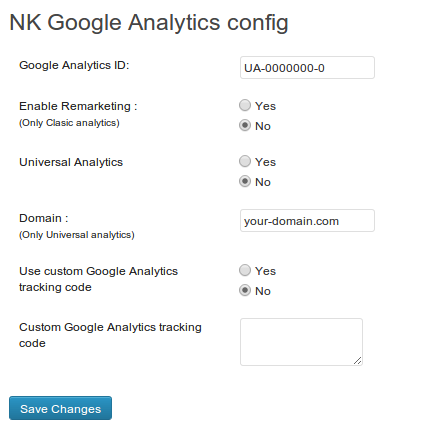
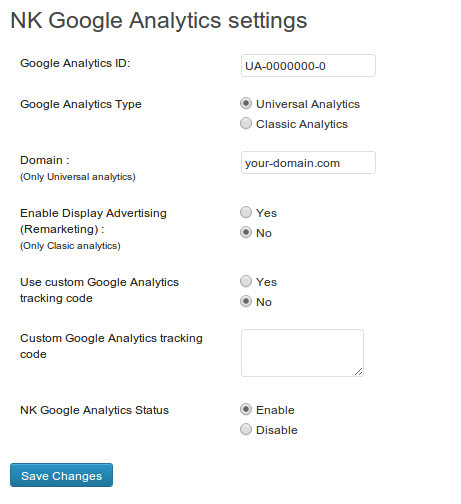
Some options updates and titles
git-svn-id: https://plugins.svn.wordpress.org/nk-google-analytics/trunk@722764 b8457f37-d9ea-0310-8a92-e5e31aec5664

diff --git a/options.php b/options.php
@@ -1,5 +1,5 @@
 <div class="wrap">
-<h2>NK Google Analytics config</h2>
+<h2>NK Google Analytics settings</h2>
 
 <form method="post" action="options.php">
 <?php wp_nonce_field('update-options'); ?>
@@ -23,7 +23,7 @@
 			update_option( "nkweb_Display_Advertising", "false" );	
 		}		
 		
-		if(get_option('nkweb_Domain')=="your-domain.com" || get_option('nkweb_Domain')==""){
+		if((get_option('nkweb_Domain')=="your-domain.com" || get_option('nkweb_Domain')=="") && get_option('nkweb_id') != "UA-0000000-0"){
 			$error="When you use Universal Analytics you must set your domain.";
 		
 		}else{
@@ -85,18 +85,10 @@ if($error != ""){
 </tr>
 
 <tr valign="top">
-<th scope="row">Enable Remarketing :<br><small>(Only Clasic analytics)</small></th>
+<th scope="row">Google Analytics Type</th>
 <td>
-	<input type="radio" name="nkweb_Display_Advertising" value="true" <?php if (get_option('nkweb_Display_Advertising') == "true"){ echo "checked "; } ?>> Yes<br>
-	<input type="radio" name="nkweb_Display_Advertising" value="false"<?php if (get_option('nkweb_Display_Advertising') == "false"){ echo "checked "; } ?>>  No <br>	
-</td>	
-</tr>
-
-<tr valign="top">
-<th scope="row">Universal Analytics</th>
-<td>
-	<input type="radio" name="nkweb_Universal_Analytics" value="true" <?php if (get_option('nkweb_Universal_Analytics') == "true"){ echo "checked "; } ?>> Yes<br>
-	<input type="radio" name="nkweb_Universal_Analytics" value="false"<?php if (get_option('nkweb_Universal_Analytics') == "false"){ echo "checked "; } ?>>  No <br>	
+	<input type="radio" name="nkweb_Universal_Analytics" value="true" <?php if (get_option('nkweb_Universal_Analytics') == "true"){ echo "checked "; } ?>> Universal Analytics<br>
+	<input type="radio" name="nkweb_Universal_Analytics" value="false"<?php if (get_option('nkweb_Universal_Analytics') == "false"){ echo "checked "; } ?>>  Classic Analytics<br>	
 </td>	
 </tr>
 
@@ -104,6 +96,15 @@ if($error != ""){
 <th scope="row">Domain :<br><small>(Only Universal analytics)</small></th>
 <td><input type="text" name="nkweb_Domain" value="<?php echo get_option('nkweb_Domain'); ?>" /></td>
 </tr>
+
+<tr valign="top">
+<th scope="row">Enable Display Advertising (Remarketing) :<br><small>(Only Clasic analytics)</small></th>
+<td>
+	<input type="radio" name="nkweb_Display_Advertising" value="true" <?php if (get_option('nkweb_Display_Advertising') == "true"){ echo "checked "; } ?>> Yes<br>
+	<input type="radio" name="nkweb_Display_Advertising" value="false"<?php if (get_option('nkweb_Display_Advertising') == "false"){ echo "checked "; } ?>>  No <br>	
+</td>	
+</tr>
+
 
 <tr valign="top">
 <th scope="row">Use custom Google Analytics tracking code</th>
@@ -117,6 +118,16 @@ if($error != ""){
 <th scope="row">Custom Google Analytics tracking code</small></th>
 <td><textarea name="nkweb_Custom_Code" ><?php echo get_option('nkweb_Custom_Code'); ?></textarea>
 </tr>
+
+<tr valign="top">
+<th scope="row">NK Google Analytics Status</th>
+<td>
+	<input type="radio" name="nkweb_Enable_GA" value="true" <?php if (get_option('nkweb_Enable_GA') == "true"){ echo "checked "; } ?>> Enable<br>
+	<input type="radio" name="nkweb_Enable_GA" value="false"<?php if (get_option('nkweb_Enable_GA') == "false"){ echo "checked "; } ?>>  Disable <br>	
+</td>	
+</tr>
+
+
 </table>
 
 <input type="hidden" name="action" value="update" />
@@ -126,4 +137,4 @@ if($error != ""){
 </p>
 
 </form>
-</div>
+</div> 

diff --git a/NKgoogleanalytics.php b/NKgoogleanalytics.php
@@ -20,10 +20,11 @@ if (!defined('WP_PLUGIN_DIR'))
 function activate_NKgoogleanalytics() {
   add_option('nkweb_id', 'UA-0000000-0');
   add_option('nkweb_Display_Advertising', 'false');  
-  add_option('nkweb_Universal_Analytics', 'false');
+  add_option('nkweb_Universal_Analytics', 'true');
   add_option('nkweb_Domain', 'your-domain.com');
   add_option('nkweb_Use_Custom', 'false');
   add_option('nkweb_Custom_Code', '');
+  add_option('nkweb_Enable_GA', 'true');
 
   //Just for statistics
   try {
@@ -41,6 +42,7 @@ function deactive_NKgoogleanalytics() {
   delete_option('nkweb_Domain');
   delete_option('nkweb_Use_Custom');
   delete_option('nkweb_Custom_Code');
+  delete_option('nkweb_Enable_GA');
 }
 
 function admin_init_NKgoogleanalytics() {
@@ -50,6 +52,7 @@ function admin_init_NKgoogleanalytics() {
   register_setting('NKgoogleanalytics', 'nkweb_Domain');
   register_setting('NKgoogleanalytics', 'nkweb_Use_Custom');
   register_setting('NKgoogleanalytics', 'nkweb_Custom_Code');
+  register_setting('NKgoogleanalytics', 'nkweb_Enable_GA');
 }
 
 function admin_menu_NKgoogleanalytics() {
@@ -69,15 +72,20 @@ function NKgoogleanalytics() {
   $Domain = get_option('nkweb_Domain');
   $nkweb_Use_Custom = get_option('nkweb_Use_Custom');
   $nkweb_Custom_Code = get_option('nkweb_Custom_Code');
+  $nkweb_Enable_GA = get_option('nkweb_Enable_GA');
   
-  if($nkweb_Use_Custom == "true"){
-    echo $comment;
-    echo "<script>" . $nkweb_Custom_Code . "</script>";
 
-  }else{
-    if($nkweb_id != "" && $nkweb_id != "UA-0000000-0"){
+  if($nkweb_Enable_GA == "true"){
+  
+    if($nkweb_Use_Custom == "true"){
+      
+      echo $comment;
+      echo "<script>" . $nkweb_Custom_Code . "</script>";
 
-      if($Universal_Analytics=="false"){
+    }else{
+      if($nkweb_id != "" && $nkweb_id != "UA-0000000-0"){
+
+        if($Universal_Analytics=="false"){
         echo $comment;
 ?>
 <script type="text/javascript">
@@ -111,7 +119,7 @@ ga('send', 'pageview');
       }
     }
   }
-
+}
 register_activation_hook(__FILE__, 'activate_NKgoogleanalytics');
 register_deactivation_hook(__FILE__, 'deactive_NKgoogleanalytics');
 
